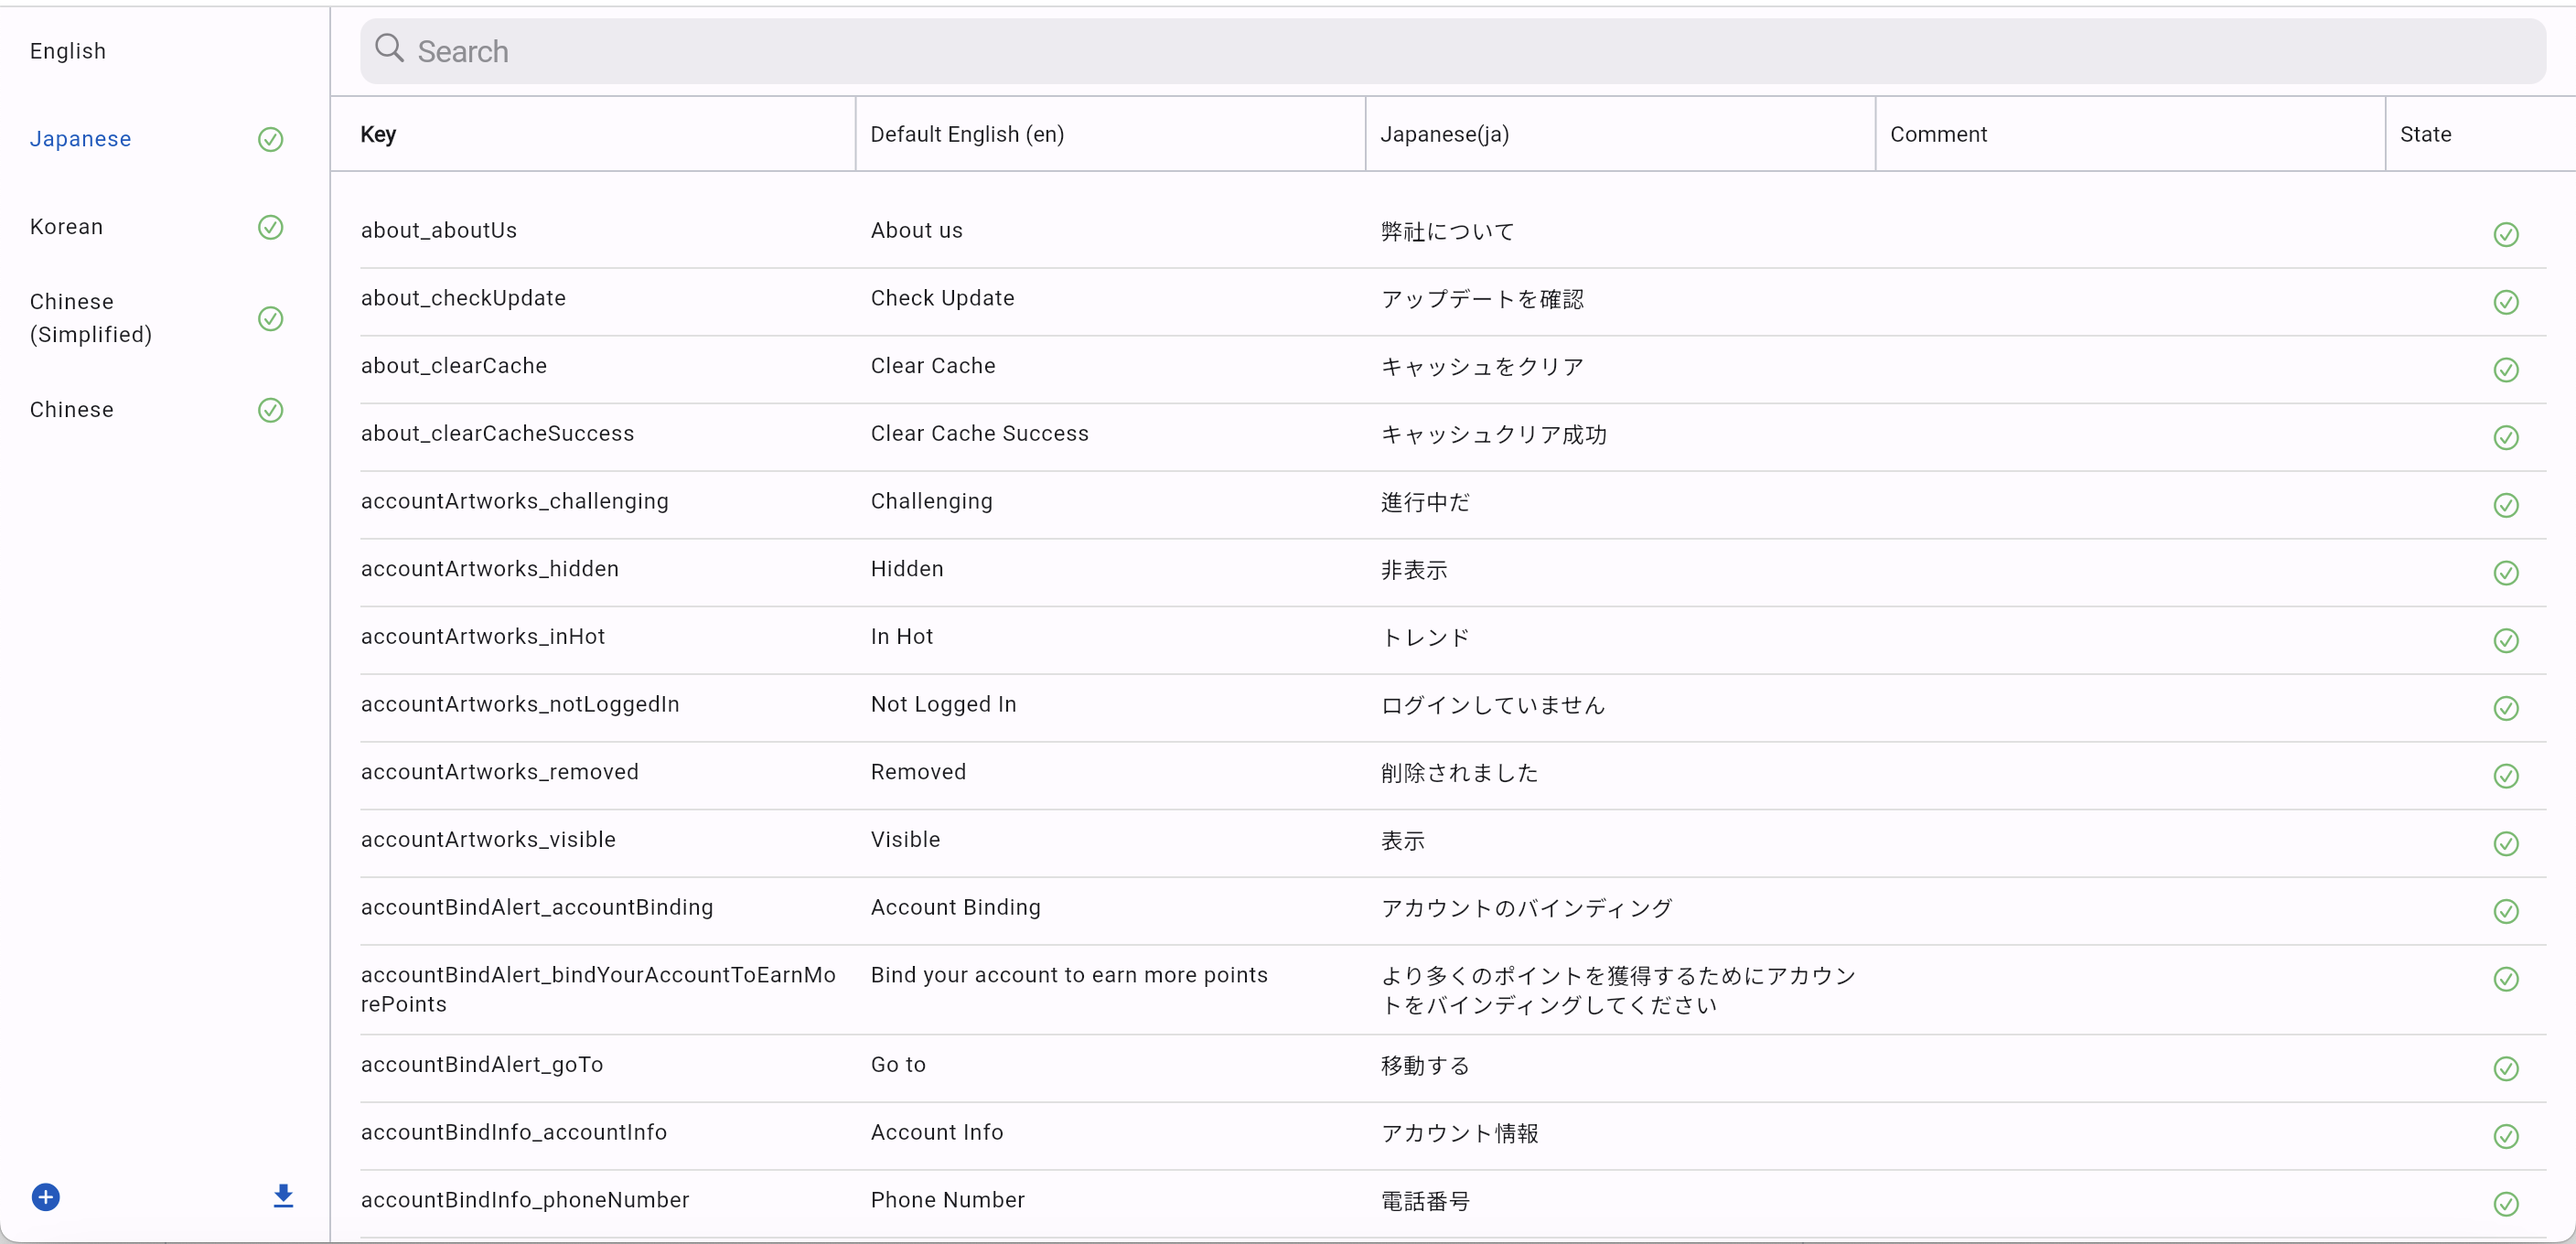
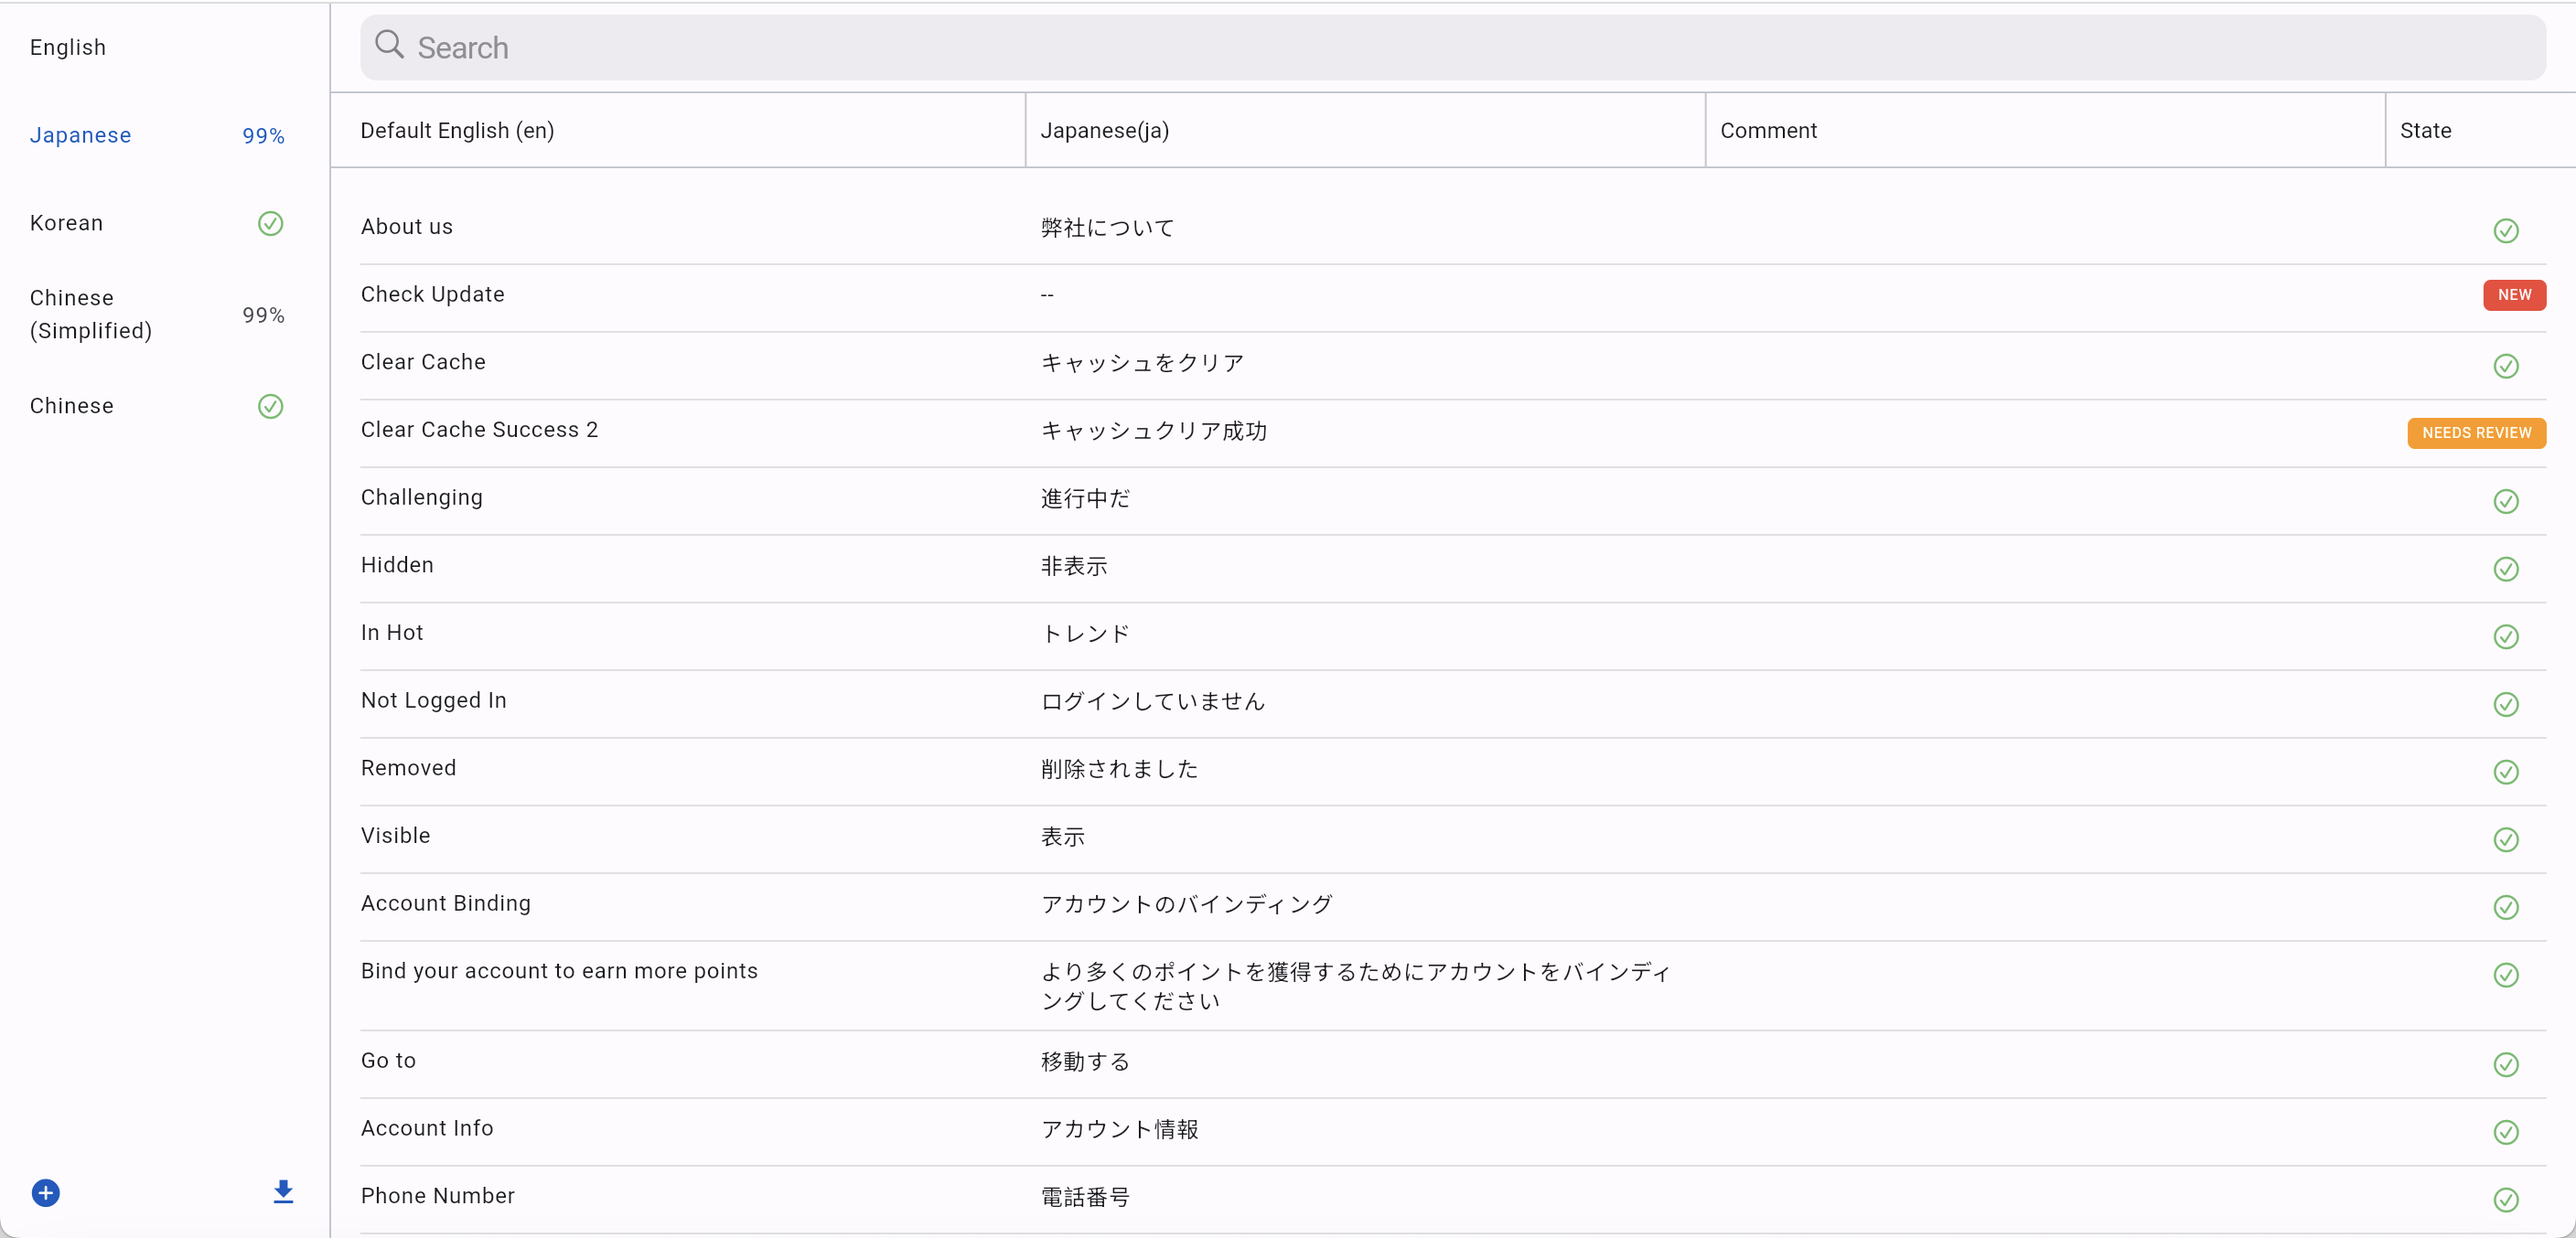
Update settings state and comment out unused code in languages sidebar

diff --git a/lib/widgets/languages_sidebar.dart b/lib/widgets/languages_sidebar.dart
@@ -64,18 +64,18 @@ class LanguagesSidebar extends StatelessWidget {
                 children: [
                   MenuAnchor(
                     menuChildren: [
-                      MenuItemButton(
-                        child: const Text("Add Key"),
-                        onPressed: () {
-                          //
-                        },
-                      ),
-                      MenuItemButton(
-                        child: const Text("Add Language"),
-                        onPressed: () {
-                          //
-                        },
-                      ),
+                      // MenuItemButton(
+                      //   child: const Text("Add Key"),
+                      //   onPressed: () {
+                      //     //
+                      //   },
+                      // ),
+                      // MenuItemButton(
+                      //   child: const Text("Add Language"),
+                      //   onPressed: () {
+                      //     //
+                      //   },
+                      // ),
                       MenuItemButton(
                         child: const Text("Import Arb Files"),
                         onPressed: () {

diff --git a/lib/cubit/settings_state.dart b/lib/cubit/settings_state.dart
@@ -2,7 +2,7 @@ part of 'settings_cubit.dart';
 
 class SettingsState extends Equatable {
   const SettingsState({
-    this.isShowKey = true,
+    this.isShowKey = false,
     this.isHighlightSpace = true,
     this.isHighlightParameter = true,
   });
